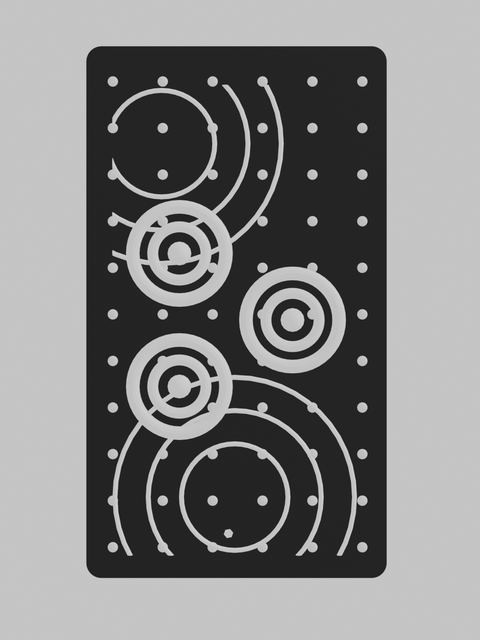
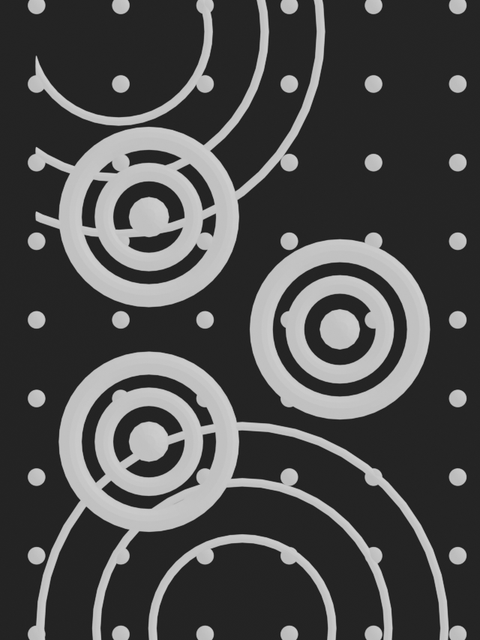
crop ImageTarget

diff --git a/ardemo/bundle.js b/ardemo/bundle.js
@@ -1,1 +1,1 @@
-(()=>{var e={574(e,a,t){const i=()=>{XR8.XrController.configure({imageTargetData:[t(821),t(238),t(14),t(876),t(639)]})};window.XR8?i():window.addEventListener("xrloaded",i)},876(e){"use strict";e.exports=JSON.parse('{"type":"PLANAR","properties":{"top":344,"left":244,"width":1120,"height":1493,"isRotated":false,"originalWidth":1530,"originalHeight":2040},"imagePath":"image-targets/DrawingTarget_luminance.jpg","metadata":null,"name":"DrawingTarget","resources":{"originalImage":"DrawingTarget_original.jpg","croppedImage":"DrawingTarget_cropped.jpg","thumbnailImage":"DrawingTarget_thumbnail.jpg","luminanceImage":"DrawingTarget_luminance.jpg"},"created":1781254383004,"updated":1781254499868}')},639(e){"use strict";e.exports=JSON.parse('{"type":"PLANAR","properties":{"top":240,"left":0,"width":1080,"height":1440,"isRotated":true,"originalWidth":1080,"originalHeight":1920},"imagePath":"image-targets/ImageTarget_luminance.png","metadata":null,"name":"ImageTarget","resources":{"originalImage":"ImageTarget_original.png","croppedImage":"ImageTarget_cropped.png","thumbnailImage":"ImageTarget_thumbnail.png","luminanceImage":"ImageTarget_luminance.png"},"created":1789044414490,"updated":1789044414490}')},821(e){"use strict";e.exports=JSON.parse('{"type":"PLANAR","properties":{"top":240,"left":0,"width":1080,"height":1440,"isRotated":true,"originalWidth":1080,"originalHeight":1920},"imagePath":"image-targets/ImageTarget_faceB_luminance.png","metadata":null,"name":"ImageTarget_faceB","resources":{"originalImage":"ImageTarget_faceB_original.png","croppedImage":"ImageTarget_faceB_cropped.png","thumbnailImage":"ImageTarget_faceB_thumbnail.png","luminanceImage":"ImageTarget_faceB_luminance.png"},"created":1779915502470,"updated":1779915502470}')},14(e){"use strict";e.exports=JSON.parse('{"type":"PLANAR","properties":{"top":297,"left":0,"width":2373,"height":3164,"isRotated":true,"originalWidth":2373,"originalHeight":3758},"imagePath":"image-targets/ImageTarget_faceB_photo_luminance.jpg","metadata":null,"name":"ImageTarget_faceB_photo","resources":{"originalImage":"ImageTarget_faceB_photo_original.jpg","croppedImage":"ImageTarget_faceB_photo_cropped.jpg","thumbnailImage":"ImageTarget_faceB_photo_thumbnail.jpg","luminanceImage":"ImageTarget_faceB_photo_luminance.jpg"},"created":1780934307092,"updated":1780934363480}')},238(e){"use strict";e.exports=JSON.parse('{"type":"PLANAR","properties":{"top":240,"left":0,"width":1080,"height":1440,"isRotated":true,"originalWidth":1080,"originalHeight":1920},"imagePath":"image-targets/ImageTarget_faceB_v2_luminance.png","metadata":null,"name":"ImageTarget_faceB_v2","resources":{"originalImage":"ImageTarget_faceB_v2_original.png","croppedImage":"ImageTarget_faceB_v2_cropped.png","thumbnailImage":"ImageTarget_faceB_v2_thumbnail.png","luminanceImage":"ImageTarget_faceB_v2_luminance.png"},"created":1781253782054,"updated":1781253782054}')}},a={};function t(i){var r=a[i];if(void 0!==r)return r.exports;var n=a[i]={exports:{}};return e[i](n,n.exports,t),n.exports}(()=>{"use strict";t(574);const e=window.ecs;e.registerComponent({name:"disc-reveal",add:(a,t)=>{const i=t.eid;console.log("[disc-reveal] initialized, eid:",i);for(const e of a.getChildren(i))a.getEntity(e).hide();a.events.addListener(i,e.input.SCREEN_TOUCH_START,()=>{console.log("[disc-reveal] tap on disc! showing children...");for(const e of a.getChildren(i))a.getEntity(e).show()})}});const a=JSON.parse('{"objects":{"47699d9e-18a5-4f88-a4f9-b8be92e8f74a":{"components":{},"geometry":null,"id":"47699d9e-18a5-4f88-a4f9-b8be92e8f74a","light":{"type":"ambient","intensity":1},"material":null,"name":"Ambient Light","position":[10,5,5],"rotation":[0,0,0,1],"scale":[1,1,1],"parentId":"88453035-dc0f-486d-868a-8ff7c2fda864","order":0.4038940050501252},"a608ddd9-9379-464d-966f-5d8d8674c83c":{"camera":{"type":"perspective","xr":{"desktop":"disabled","xrCameraType":"world","headset":"disabled","phone":"AR","world":{"disableWorldTracking":false}}},"components":{},"geometry":null,"id":"a608ddd9-9379-464d-966f-5d8d8674c83c","material":null,"name":"Camera","position":[0,0.9018198838289004,0.741421885372211],"rotation":[0.00044368872331410124,0.9659425615285845,-0.25875089860082223,0.0016563336561801576],"scale":[1,1,1],"parentId":"88453035-dc0f-486d-868a-8ff7c2fda864","order":1.0308214152219775},"ac1989e3-3b71-49e2-a05f-e682aeb18c36":{"components":{},"geometry":null,"id":"ac1989e3-3b71-49e2-a05f-e682aeb18c36","light":{"intensity":1,"type":"spot"},"material":null,"name":"Directional Light","position":[20,50,10],"rotation":[0,0,0,1],"scale":[1,1,1],"parentId":"88453035-dc0f-486d-868a-8ff7c2fda864","order":0.6644431107322474,"disabled":true},"1e91f161-0d44-46aa-9293-a99c9fda4cfc":{"id":"1e91f161-0d44-46aa-9293-a99c9fda4cfc","position":[0,0,0],"rotation":[-0.0007214830860009088,0.7071064131106128,0.7071064131106127,0.000721483086000909],"scale":[0.46435666458094,0.5232044512818127,0.756394528108489],"geometry":null,"material":null,"parentId":"88453035-dc0f-486d-868a-8ff7c2fda864","components":{},"name":"Cible d\'image","imageTarget":{"name":"ImageTarget"},"order":2.139191317678198,"hidden":false},"9e4f45a1-fdc1-420e-927c-e20c37679c87":{"id":"9e4f45a1-fdc1-420e-927c-e20c37679c87","position":[0.9000000000000001,0.35012925459543354,-0.6000000000000001],"rotation":[-5.58722858979262e-15,0,0,1],"scale":[0.5000000000000001,10,0.5],"geometry":null,"material":null,"parentId":"fc3fc9c0-f57e-41b2-9dac-1f4b7624e730","components":{},"gltfModel":{"src":{"type":"asset","asset":"assets/ARScene_plateform_cyan.glb"},"animationClip":"","loop":true},"name":"ARScene_plateform_cyan.glb","order":7.973549248495258,"hidden":false},"10a5ec45-6de4-4dab-9b4e-79e02332a54c":{"id":"10a5ec45-6de4-4dab-9b4e-79e02332a54c","position":[0,0.34256136959265326,0.9014871190410696],"rotation":[-5.583889103245496e-15,0,0,1],"scale":[0.5000000000000001,10,0.5],"geometry":null,"material":{"type":"basic","color":"#FFFFFF"},"parentId":"4e882f92-0a55-4250-a554-bdc9d028fc68","components":{},"gltfModel":{"src":{"type":"asset","asset":"assets/ARScene_plateform_ocre.glb"},"animationClip":"","loop":true},"name":"ARScene_plateform_ocre.glb","order":8.098904964092462,"hidden":false},"9067b348-8a63-44e7-87a6-07088d6eacd4":{"id":"9067b348-8a63-44e7-87a6-07088d6eacd4","position":[-0.9002616508343078,0.3425613695926639,-0.6000000000000001],"rotation":[-5.5949656866928256e-15,0,0,1],"scale":[0.5000000000000001,10,0.5],"geometry":null,"material":null,"parentId":"9c71edb4-7bd2-4942-8296-321c42876638","components":{},"gltfModel":{"src":{"type":"asset","asset":"assets/ARScene_plateform_violet.glb"},"animationClip":"","loop":true},"name":"ARScene_plateform_violet.glb","order":8.224260679689667,"hidden":false},"4e882f92-0a55-4250-a554-bdc9d028fc68":{"id":"4e882f92-0a55-4250-a554-bdc9d028fc68","position":[0.013570376758451479,0.1424425600759818,0.11931212535441135],"rotation":[0.7591085691363911,-0.02419738828024031,-0.01565717117607031,0.6498758338620387],"scale":[0.21522925513388672,0.006672101399863578,0.18976423108646065],"geometry":{"type":"cylinder","radius":0.5,"height":1},"material":{"type":"basic","color":"#FFFFFF"},"parentId":"1e91f161-0d44-46aa-9293-a99c9fda4cfc","components":{"afa9b0a0-345d-418d-949d-bfbceaa96d0b":{"id":"afa9b0a0-345d-418d-949d-bfbceaa96d0b","name":"disc-reveal"}},"name":"Trigger (1)","order":1.3804374641181032,"hidden":false},"fc3fc9c0-f57e-41b2-9dac-1f4b7624e730":{"id":"fc3fc9c0-f57e-41b2-9dac-1f4b7624e730","position":[-0.19793377886445937,-0.12168732639848888,0.04523591292123831],"rotation":[0.7516020034654682,0.08692523939359756,0.05632929724081484,0.6480771356811527],"scale":[0.21444211855926903,0.0066679967588537704,0.190677087375002],"geometry":{"type":"cylinder","radius":0.5,"height":1},"material":{"type":"basic","color":"#FFFFFF"},"components":{"da07d809-ab1e-4e86-ae96-ef33dfc8a491":{"id":"da07d809-ab1e-4e86-ae96-ef33dfc8a491","name":"disc-reveal"}},"name":"Trigger (2)","order":1.4529610374001736,"parentId":"1e91f161-0d44-46aa-9293-a99c9fda4cfc","hidden":false},"9c71edb4-7bd2-4942-8296-321c42876638":{"id":"9c71edb4-7bd2-4942-8296-321c42876638","position":[0.18915686223617445,-0.14059251914120963,0.04327594829295948],"rotation":[0.7091204604279034,-0.23402651661728582,-0.16224426589299593,0.6299370772038301],"scale":[0.20817379348624354,0.006674546622353818,0.1967754407308046],"geometry":{"type":"cylinder","radius":0.5,"height":1},"material":{"type":"basic","color":"#FFFFFF"},"components":{"dc609c84-8091-415e-a3cf-2af6a70112c2":{"id":"dc609c84-8091-415e-a3cf-2af6a70112c2","name":"disc-reveal"}},"name":"Trigger (3)","order":1.525484610682244,"parentId":"1e91f161-0d44-46aa-9293-a99c9fda4cfc"},"4612ef91-a58b-46df-8c86-804473df6b57":{"id":"4612ef91-a58b-46df-8c86-804473df6b57","position":[0,13.09600526832757,0.0016253430613590858],"rotation":[-0.043619387365336,0,0,0.9990482215818578],"scale":[0.9999999999999996,10,10],"geometry":null,"material":null,"parentId":"4e882f92-0a55-4250-a554-bdc9d028fc68","components":{},"ui":{"background":"#ffffff","backgroundOpacity":0.5,"width":100,"height":25,"text":"Atelier Vision & Acculturation","color":"#c8a86c","fontSize":10,"type":"3d","font":{"type":"font","font":"Futura"},"verticalTextAlign":"center","borderRadius":5},"name":"Label","order":9.540336698721632,"hidden":false},"cf2ccdf3-25dc-4d7c-97e2-46d6871c7f46":{"id":"cf2ccdf3-25dc-4d7c-97e2-46d6871c7f46","position":[-1.1102230246251565e-16,14.810396082777528,-0.0008018703897962887],"rotation":[-0.043619387365336,0,0,0.9990482215818578],"scale":[0.9999999999999996,10,10],"geometry":null,"material":null,"parentId":"fc3fc9c0-f57e-41b2-9dac-1f4b7624e730","components":{},"ui":{"background":"#ffffff","backgroundOpacity":0.5,"width":100,"height":25,"text":"Prototypage & Developpement","color":"#5bc8c0","fontSize":10,"type":"3d","font":{"type":"font","font":"Futura"},"verticalTextAlign":"center","borderRadius":5},"name":"Label","order":9.140348162823615,"hidden":false},"e05ebec9-e43a-43bc-9f27-f5a3d796dede":{"id":"e05ebec9-e43a-43bc-9f27-f5a3d796dede","position":[2.220446049250313e-16,14.810383740110296,-0.0008234726715625751],"rotation":[-0.043619387365336,0,0,0.9990482215818578],"scale":[0.9999999999999996,10,10],"geometry":null,"material":null,"parentId":"9c71edb4-7bd2-4942-8296-321c42876638","components":{},"ui":{"background":"#ffffff","backgroundOpacity":0.5,"width":100,"height":25,"text":"Direction de Projet Innovation","color":"#9b8ec4","fontSize":10,"type":"3d","font":{"type":"font","font":"Futura"},"verticalTextAlign":"center","borderRadius":5},"name":"Label","order":10.156472634020272,"hidden":false},"ae7270a2-51af-4bb4-9383-0168b21f7a7a":{"id":"ae7270a2-51af-4bb4-9383-0168b21f7a7a","position":[0,0,0],"rotation":[0,0,0,1],"scale":[1,1,1],"geometry":null,"material":null,"parentId":"88453035-dc0f-486d-868a-8ff7c2fda864","components":{},"ui":{"width":100,"height":100,"text":"V1.5 - Drawing target","color":"#ffffff","fontSize":12,"type":"overlay"},"name":"Version#","order":3.733576123742947,"hidden":false},"08453781-f911-48a4-9f50-e968d7f330b0":{"id":"08453781-f911-48a4-9f50-e968d7f330b0","position":[0,0,0],"rotation":[-0.0007214830860009088,0.7071064131106128,0.7071064131106127,0.000721483086000909],"scale":[0.46435666458094,0.5232044512818127,0.756394528108489],"geometry":null,"material":null,"components":{},"name":"Plateformes","order":1.1065764966008638,"prefab":true},"6ea003f3-ccbd-4cff-8484-5d0d018e7a58":{"id":"6ea003f3-ccbd-4cff-8484-5d0d018e7a58","position":[0,0,0],"rotation":[0,0,0,1],"scale":[1,1,1],"geometry":null,"material":null,"parentId":"88453035-dc0f-486d-868a-8ff7c2fda864","components":{},"name":"Cible d\'image drawing","imageTarget":{"name":"DrawingTarget"},"order":5.200654409174332,"hidden":true},"3a5cecb7-d05e-44cf-a37e-b5f1f180d34c":{"id":"3a5cecb7-d05e-44cf-a37e-b5f1f180d34c","position":[0,0,0.08258011022380563],"rotation":[0,0,0,1],"scale":[0.3477625076281878,0.3477625076281878,0.35887760053056417],"geometry":{"type":"torus","radius":0.5,"tubeRadius":0.2},"material":{"type":"basic","color":"#000000"},"parentId":"6ea003f3-ccbd-4cff-8484-5d0d018e7a58","components":{},"name":"Torus","order":1.0558800920783071}},"spaces":{"88453035-dc0f-486d-868a-8ff7c2fda864":{"id":"88453035-dc0f-486d-868a-8ff7c2fda864","name":"Default Space","activeCamera":"a608ddd9-9379-464d-966f-5d8d8674c83c"}},"entrySpaceId":"88453035-dc0f-486d-868a-8ff7c2fda864"}');delete a.history,delete a.historyVersion,window.ecs.application.init(a)})()})();
+(()=>{var e={574(e,a,t){const i=()=>{XR8.XrController.configure({imageTargetData:[t(821),t(238),t(14),t(876),t(639)]})};window.XR8?i():window.addEventListener("xrloaded",i)},876(e){"use strict";e.exports=JSON.parse('{"type":"PLANAR","properties":{"top":344,"left":244,"width":1120,"height":1493,"isRotated":false,"originalWidth":1530,"originalHeight":2040},"imagePath":"image-targets/DrawingTarget_luminance.jpg","metadata":null,"name":"DrawingTarget","resources":{"originalImage":"DrawingTarget_original.jpg","croppedImage":"DrawingTarget_cropped.jpg","thumbnailImage":"DrawingTarget_thumbnail.jpg","luminanceImage":"DrawingTarget_luminance.jpg"},"created":1781254383004,"updated":1781254499868}')},639(e){"use strict";e.exports=JSON.parse('{"type":"PLANAR","properties":{"top":521,"left":205,"width":640,"height":853,"isRotated":true,"originalWidth":1080,"originalHeight":1920},"imagePath":"image-targets/ImageTarget_luminance.png","metadata":null,"name":"ImageTarget","resources":{"originalImage":"ImageTarget_original.png","croppedImage":"ImageTarget_cropped.png","thumbnailImage":"ImageTarget_thumbnail.png","luminanceImage":"ImageTarget_luminance.png"},"created":1789044414490,"updated":1789045575566}')},821(e){"use strict";e.exports=JSON.parse('{"type":"PLANAR","properties":{"top":240,"left":0,"width":1080,"height":1440,"isRotated":true,"originalWidth":1080,"originalHeight":1920},"imagePath":"image-targets/ImageTarget_faceB_luminance.png","metadata":null,"name":"ImageTarget_faceB","resources":{"originalImage":"ImageTarget_faceB_original.png","croppedImage":"ImageTarget_faceB_cropped.png","thumbnailImage":"ImageTarget_faceB_thumbnail.png","luminanceImage":"ImageTarget_faceB_luminance.png"},"created":1779915502470,"updated":1779915502470}')},14(e){"use strict";e.exports=JSON.parse('{"type":"PLANAR","properties":{"top":297,"left":0,"width":2373,"height":3164,"isRotated":true,"originalWidth":2373,"originalHeight":3758},"imagePath":"image-targets/ImageTarget_faceB_photo_luminance.jpg","metadata":null,"name":"ImageTarget_faceB_photo","resources":{"originalImage":"ImageTarget_faceB_photo_original.jpg","croppedImage":"ImageTarget_faceB_photo_cropped.jpg","thumbnailImage":"ImageTarget_faceB_photo_thumbnail.jpg","luminanceImage":"ImageTarget_faceB_photo_luminance.jpg"},"created":1780934307092,"updated":1780934363480}')},238(e){"use strict";e.exports=JSON.parse('{"type":"PLANAR","properties":{"top":240,"left":0,"width":1080,"height":1440,"isRotated":true,"originalWidth":1080,"originalHeight":1920},"imagePath":"image-targets/ImageTarget_faceB_v2_luminance.png","metadata":null,"name":"ImageTarget_faceB_v2","resources":{"originalImage":"ImageTarget_faceB_v2_original.png","croppedImage":"ImageTarget_faceB_v2_cropped.png","thumbnailImage":"ImageTarget_faceB_v2_thumbnail.png","luminanceImage":"ImageTarget_faceB_v2_luminance.png"},"created":1781253782054,"updated":1781253782054}')}},a={};function t(i){var r=a[i];if(void 0!==r)return r.exports;var n=a[i]={exports:{}};return e[i](n,n.exports,t),n.exports}(()=>{"use strict";t(574);const e=window.ecs;e.registerComponent({name:"disc-reveal",add:(a,t)=>{const i=t.eid;console.log("[disc-reveal] initialized, eid:",i);for(const e of a.getChildren(i))a.getEntity(e).hide();a.events.addListener(i,e.input.SCREEN_TOUCH_START,()=>{console.log("[disc-reveal] tap on disc! showing children...");for(const e of a.getChildren(i))a.getEntity(e).show()})}});const a=JSON.parse('{"objects":{"47699d9e-18a5-4f88-a4f9-b8be92e8f74a":{"components":{},"geometry":null,"id":"47699d9e-18a5-4f88-a4f9-b8be92e8f74a","light":{"type":"ambient","intensity":1},"material":null,"name":"Ambient Light","position":[10,5,5],"rotation":[0,0,0,1],"scale":[1,1,1],"parentId":"88453035-dc0f-486d-868a-8ff7c2fda864","order":0.4038940050501252},"a608ddd9-9379-464d-966f-5d8d8674c83c":{"camera":{"type":"perspective","xr":{"desktop":"disabled","xrCameraType":"world","headset":"disabled","phone":"AR","world":{"disableWorldTracking":false}}},"components":{},"geometry":null,"id":"a608ddd9-9379-464d-966f-5d8d8674c83c","material":null,"name":"Camera","position":[0,0.9018198838289004,0.741421885372211],"rotation":[0.00044368872331410124,0.9659425615285845,-0.25875089860082223,0.0016563336561801576],"scale":[1,1,1],"parentId":"88453035-dc0f-486d-868a-8ff7c2fda864","order":1.0308214152219775},"ac1989e3-3b71-49e2-a05f-e682aeb18c36":{"components":{},"geometry":null,"id":"ac1989e3-3b71-49e2-a05f-e682aeb18c36","light":{"intensity":1,"type":"spot"},"material":null,"name":"Directional Light","position":[20,50,10],"rotation":[0,0,0,1],"scale":[1,1,1],"parentId":"88453035-dc0f-486d-868a-8ff7c2fda864","order":0.6644431107322474,"disabled":true},"1e91f161-0d44-46aa-9293-a99c9fda4cfc":{"id":"1e91f161-0d44-46aa-9293-a99c9fda4cfc","position":[0,0,0],"rotation":[-0.0007214830860009088,0.7071064131106128,0.7071064131106127,0.000721483086000909],"scale":[0.46435666458094,0.5232044512818127,0.756394528108489],"geometry":null,"material":null,"parentId":"88453035-dc0f-486d-868a-8ff7c2fda864","components":{},"name":"Cible d\'image","imageTarget":{"name":"ImageTarget"},"order":2.139191317678198,"hidden":false},"9e4f45a1-fdc1-420e-927c-e20c37679c87":{"id":"9e4f45a1-fdc1-420e-927c-e20c37679c87","position":[0.9000000000000001,0.35012925459543354,-0.6000000000000001],"rotation":[-5.58722858979262e-15,0,0,1],"scale":[0.5000000000000001,10,0.5],"geometry":null,"material":null,"parentId":"fc3fc9c0-f57e-41b2-9dac-1f4b7624e730","components":{},"gltfModel":{"src":{"type":"asset","asset":"assets/ARScene_plateform_cyan.glb"},"animationClip":"","loop":true},"name":"ARScene_plateform_cyan.glb","order":7.973549248495258,"hidden":false},"10a5ec45-6de4-4dab-9b4e-79e02332a54c":{"id":"10a5ec45-6de4-4dab-9b4e-79e02332a54c","position":[0,0.34256136959265326,0.9014871190410696],"rotation":[-5.583889103245496e-15,0,0,1],"scale":[0.5000000000000001,10,0.5],"geometry":null,"material":{"type":"basic","color":"#FFFFFF"},"parentId":"4e882f92-0a55-4250-a554-bdc9d028fc68","components":{},"gltfModel":{"src":{"type":"asset","asset":"assets/ARScene_plateform_ocre.glb"},"animationClip":"","loop":true},"name":"ARScene_plateform_ocre.glb","order":8.098904964092462,"hidden":false},"9067b348-8a63-44e7-87a6-07088d6eacd4":{"id":"9067b348-8a63-44e7-87a6-07088d6eacd4","position":[-0.9002616508343078,0.3425613695926639,-0.6000000000000001],"rotation":[-5.5949656866928256e-15,0,0,1],"scale":[0.5000000000000001,10,0.5],"geometry":null,"material":null,"parentId":"9c71edb4-7bd2-4942-8296-321c42876638","components":{},"gltfModel":{"src":{"type":"asset","asset":"assets/ARScene_plateform_violet.glb"},"animationClip":"","loop":true},"name":"ARScene_plateform_violet.glb","order":8.224260679689667,"hidden":false},"4e882f92-0a55-4250-a554-bdc9d028fc68":{"id":"4e882f92-0a55-4250-a554-bdc9d028fc68","position":[0.013570376758451479,0.1424425600759818,0.11931212535441135],"rotation":[0.7591085691363911,-0.02419738828024031,-0.01565717117607031,0.6498758338620387],"scale":[0.21522925513388672,0.006672101399863578,0.18976423108646065],"geometry":{"type":"cylinder","radius":0.5,"height":1},"material":{"type":"basic","color":"#FFFFFF"},"parentId":"1e91f161-0d44-46aa-9293-a99c9fda4cfc","components":{"afa9b0a0-345d-418d-949d-bfbceaa96d0b":{"id":"afa9b0a0-345d-418d-949d-bfbceaa96d0b","name":"disc-reveal"}},"name":"Trigger (1)","order":1.3804374641181032,"hidden":false},"fc3fc9c0-f57e-41b2-9dac-1f4b7624e730":{"id":"fc3fc9c0-f57e-41b2-9dac-1f4b7624e730","position":[-0.19793377886445937,-0.12168732639848888,0.04523591292123831],"rotation":[0.7516020034654682,0.08692523939359756,0.05632929724081484,0.6480771356811527],"scale":[0.21444211855926903,0.0066679967588537704,0.190677087375002],"geometry":{"type":"cylinder","radius":0.5,"height":1},"material":{"type":"basic","color":"#FFFFFF"},"components":{"da07d809-ab1e-4e86-ae96-ef33dfc8a491":{"id":"da07d809-ab1e-4e86-ae96-ef33dfc8a491","name":"disc-reveal"}},"name":"Trigger (2)","order":1.4529610374001736,"parentId":"1e91f161-0d44-46aa-9293-a99c9fda4cfc","hidden":false},"9c71edb4-7bd2-4942-8296-321c42876638":{"id":"9c71edb4-7bd2-4942-8296-321c42876638","position":[0.18915686223617445,-0.14059251914120963,0.04327594829295948],"rotation":[0.7091204604279034,-0.23402651661728582,-0.16224426589299593,0.6299370772038301],"scale":[0.20817379348624354,0.006674546622353818,0.1967754407308046],"geometry":{"type":"cylinder","radius":0.5,"height":1},"material":{"type":"basic","color":"#FFFFFF"},"components":{"dc609c84-8091-415e-a3cf-2af6a70112c2":{"id":"dc609c84-8091-415e-a3cf-2af6a70112c2","name":"disc-reveal"}},"name":"Trigger (3)","order":1.525484610682244,"parentId":"1e91f161-0d44-46aa-9293-a99c9fda4cfc"},"4612ef91-a58b-46df-8c86-804473df6b57":{"id":"4612ef91-a58b-46df-8c86-804473df6b57","position":[0,13.09600526832757,0.0016253430613590858],"rotation":[-0.043619387365336,0,0,0.9990482215818578],"scale":[0.9999999999999996,10,10],"geometry":null,"material":null,"parentId":"4e882f92-0a55-4250-a554-bdc9d028fc68","components":{},"ui":{"background":"#ffffff","backgroundOpacity":0.5,"width":100,"height":25,"text":"Atelier Vision & Acculturation","color":"#c8a86c","fontSize":10,"type":"3d","font":{"type":"font","font":"Futura"},"verticalTextAlign":"center","borderRadius":5},"name":"Label","order":9.540336698721632,"hidden":false},"cf2ccdf3-25dc-4d7c-97e2-46d6871c7f46":{"id":"cf2ccdf3-25dc-4d7c-97e2-46d6871c7f46","position":[-1.1102230246251565e-16,14.810396082777528,-0.0008018703897962887],"rotation":[-0.043619387365336,0,0,0.9990482215818578],"scale":[0.9999999999999996,10,10],"geometry":null,"material":null,"parentId":"fc3fc9c0-f57e-41b2-9dac-1f4b7624e730","components":{},"ui":{"background":"#ffffff","backgroundOpacity":0.5,"width":100,"height":25,"text":"Prototypage & Developpement","color":"#5bc8c0","fontSize":10,"type":"3d","font":{"type":"font","font":"Futura"},"verticalTextAlign":"center","borderRadius":5},"name":"Label","order":9.140348162823615,"hidden":false},"e05ebec9-e43a-43bc-9f27-f5a3d796dede":{"id":"e05ebec9-e43a-43bc-9f27-f5a3d796dede","position":[2.220446049250313e-16,14.810383740110296,-0.0008234726715625751],"rotation":[-0.043619387365336,0,0,0.9990482215818578],"scale":[0.9999999999999996,10,10],"geometry":null,"material":null,"parentId":"9c71edb4-7bd2-4942-8296-321c42876638","components":{},"ui":{"background":"#ffffff","backgroundOpacity":0.5,"width":100,"height":25,"text":"Direction de Projet Innovation","color":"#9b8ec4","fontSize":10,"type":"3d","font":{"type":"font","font":"Futura"},"verticalTextAlign":"center","borderRadius":5},"name":"Label","order":10.156472634020272,"hidden":false},"ae7270a2-51af-4bb4-9383-0168b21f7a7a":{"id":"ae7270a2-51af-4bb4-9383-0168b21f7a7a","position":[0,0,0],"rotation":[0,0,0,1],"scale":[1,1,1],"geometry":null,"material":null,"parentId":"88453035-dc0f-486d-868a-8ff7c2fda864","components":{},"ui":{"width":100,"height":100,"text":"V1.5 - Drawing target","color":"#ffffff","fontSize":12,"type":"overlay"},"name":"Version#","order":3.733576123742947,"hidden":false},"08453781-f911-48a4-9f50-e968d7f330b0":{"id":"08453781-f911-48a4-9f50-e968d7f330b0","position":[0,0,0],"rotation":[-0.0007214830860009088,0.7071064131106128,0.7071064131106127,0.000721483086000909],"scale":[0.46435666458094,0.5232044512818127,0.756394528108489],"geometry":null,"material":null,"components":{},"name":"Plateformes","order":1.1065764966008638,"prefab":true},"6ea003f3-ccbd-4cff-8484-5d0d018e7a58":{"id":"6ea003f3-ccbd-4cff-8484-5d0d018e7a58","position":[0,0,0],"rotation":[0,0,0,1],"scale":[1,1,1],"geometry":null,"material":null,"parentId":"88453035-dc0f-486d-868a-8ff7c2fda864","components":{},"name":"Cible d\'image drawing","imageTarget":{"name":"DrawingTarget"},"order":5.200654409174332,"hidden":true},"3a5cecb7-d05e-44cf-a37e-b5f1f180d34c":{"id":"3a5cecb7-d05e-44cf-a37e-b5f1f180d34c","position":[0,0,0.08258011022380563],"rotation":[0,0,0,1],"scale":[0.3477625076281878,0.3477625076281878,0.35887760053056417],"geometry":{"type":"torus","radius":0.5,"tubeRadius":0.2},"material":{"type":"basic","color":"#000000"},"parentId":"6ea003f3-ccbd-4cff-8484-5d0d018e7a58","components":{},"name":"Torus","order":1.0558800920783071}},"spaces":{"88453035-dc0f-486d-868a-8ff7c2fda864":{"id":"88453035-dc0f-486d-868a-8ff7c2fda864","name":"Default Space","activeCamera":"a608ddd9-9379-464d-966f-5d8d8674c83c"}},"entrySpaceId":"88453035-dc0f-486d-868a-8ff7c2fda864"}');delete a.history,delete a.historyVersion,window.ecs.application.init(a)})()})();
